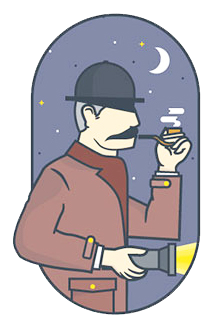
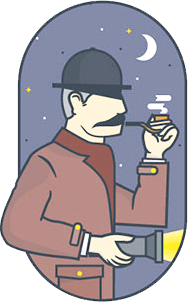
Foto update

diff --git a/main.css b/main.css
@@ -5,16 +5,16 @@ body {
 img {
     display: inline-block;
     /* width: 50%; */
-    width: 400px;
+    width: 30%;
     height: 500px;
     object-fit: contain;
     float: left;
-    margin-left: 100px;
-    margin-top: 50px;
+    margin-left: 20%;
+    margin-top: 100px;
     }
 div {
     display: inline-block;
-    width: 50%;
+    width: 30%;
     float: left;
     text-align: center;
     margin-top: 150px;
